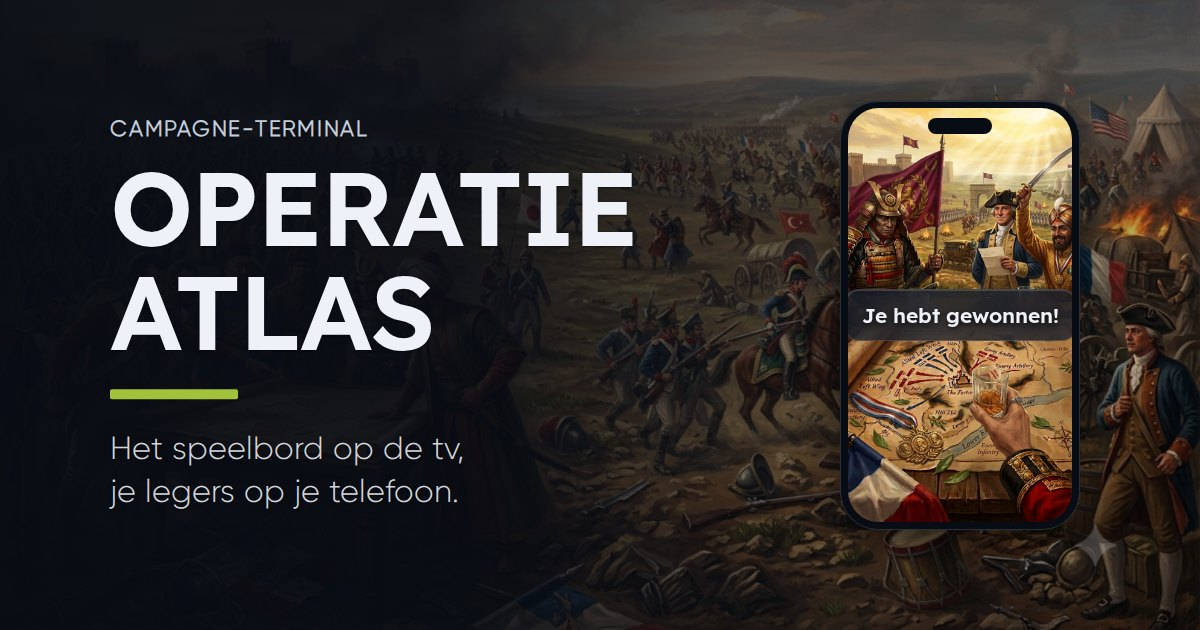
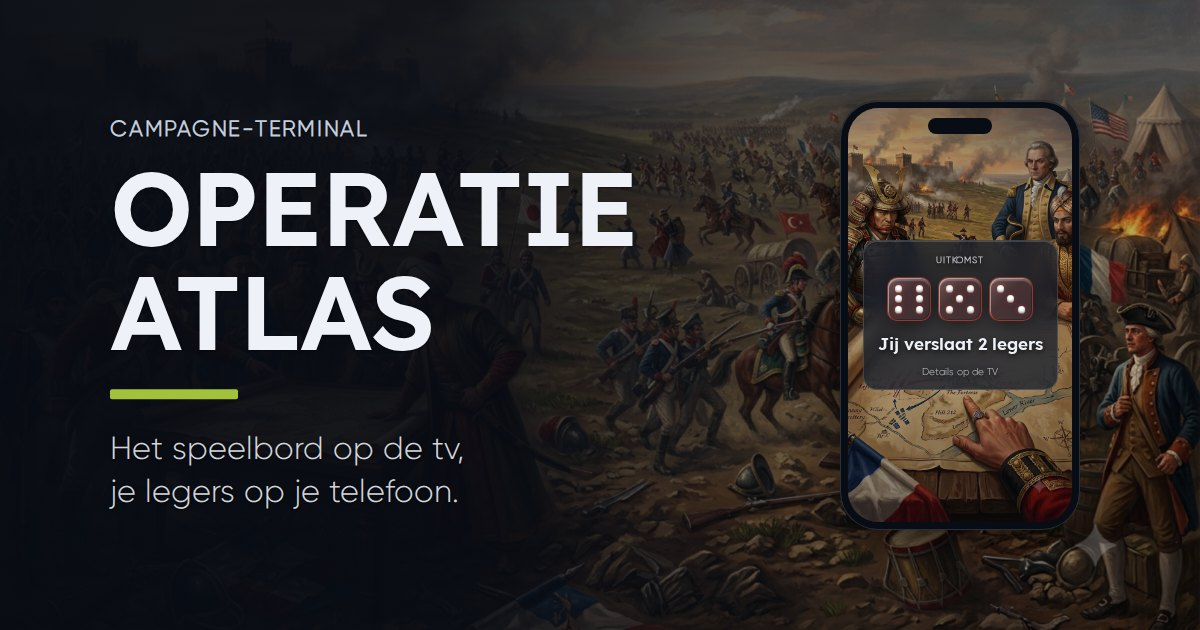
feat(frontend): aanvalsscherm met dobbelstenen in het linkvoorbeeld
Het overwinningsscherm voelde als het einde van het verhaal, terwijl het
linkvoorbeeld bij een uitnodiging hoort. Nu toont de telefoon de
aanvalsuitkomst van AttackFlowStep: drie rode glas-dobbelstenen (6-5-3),
"Jij verslaat 2 legers" en "Details op de TV", op phone-battlefield.webp.
Tints, schaduwen en pips volgen glass-tokens.ts; maten zijn opgeschaald
t.o.v. de telefoonverhouding zodat het in een klein voorbeeld leesbaar blijft.

Claude-Session: https://claude.ai/code/session_01TTcKwdJ6TVH6VrBiNnrEst

Changed region(s): [[0.7092, 0.1508, 0.8942, 0.8444]]

diff --git a/docs/brand/og-image.html b/docs/brand/og-image.html
@@ -12,14 +12,28 @@ p{font:400 32px/1.35 Body;color:color-mix(in srgb,#eef2f8 90%,transparent);margi
 .phone{position:absolute;right:120px;top:100px;width:240px;height:430px;border-radius:38px;padding:7px;box-sizing:border-box;
  background:#080c14;border:1px solid rgba(255,255,255,.14);box-shadow:inset 0 1px 0 rgba(255,255,255,.16),0 18px 40px rgba(0,0,0,.55)}
 .screen{position:relative;width:100%;height:100%;border-radius:31px;overflow:hidden;
- background:url("../../frontend/src/styles/assets/phone-winner.webp") center/cover;display:flex;align-items:center;justify-content:center}
-.notch{position:absolute;top:10px;left:50%;transform:translateX(-50%);width:64px;height:16px;border-radius:8px;background:#080c14}
-.win{padding:12px 16px;border-radius:14px;background:rgba(20,29,44,.72);backdrop-filter:blur(14px);-webkit-backdrop-filter:blur(14px);
- border:1px solid rgba(255,255,255,.14);box-shadow:inset 0 1px 0 rgba(255,255,255,.16);
- font:800 21px Brand;color:#eef2f8;text-shadow:0 2px 6px rgba(0,0,0,.85);white-space:nowrap}
+ background:url("../../frontend/src/styles/assets/phone-battlefield.webp") center/cover;display:flex;align-items:center;justify-content:center}
+.screen::before{content:"";position:absolute;inset:0;background:linear-gradient(180deg,rgba(8,12,20,.35),rgba(8,12,20,.15) 40%,rgba(8,12,20,.45))}
+.notch{position:absolute;top:10px;left:50%;transform:translateX(-50%);width:64px;height:16px;border-radius:8px;background:#080c14;z-index:2}
+.panel{position:relative;display:flex;flex-direction:column;align-items:center;gap:12px;padding:14px 14px 12px;border-radius:14px;
+ background:rgba(20,29,44,.72);backdrop-filter:blur(14px);-webkit-backdrop-filter:blur(14px);
+ border:1px solid rgba(255,255,255,.14);box-shadow:inset 0 1px 0 rgba(255,255,255,.16);text-shadow:0 2px 6px rgba(0,0,0,.85);text-align:center}
+.label{font:800 9px Body;letter-spacing:.1em;text-transform:uppercase;color:color-mix(in srgb,#eef2f8 75%,transparent)}
+.dice{display:flex;gap:7px}
+.die{position:relative;width:44px;height:44px;border-radius:10px;padding:6px;box-sizing:border-box;display:grid;grid-template:repeat(3,1fr)/repeat(3,1fr);gap:2px;
+ background:linear-gradient(135deg,rgba(148,78,66,.45),rgba(148,78,66,.28));backdrop-filter:blur(6px);-webkit-backdrop-filter:blur(6px);
+ border:1px solid color-mix(in srgb,#ca3c25 60%,transparent);
+ box-shadow:inset 1px 1px 0 rgba(255,255,255,.45),inset -1px -1px 0 rgba(0,0,0,.25),inset 0 3px 0 rgba(255,255,255,.18),0 8px 20px -6px rgba(0,0,0,.45);
+ transform:perspective(400px) rotateX(5deg)}
+.die::before{content:"";position:absolute;inset:0;border-radius:inherit;background:linear-gradient(135deg,rgba(255,255,255,.18) 0%,rgba(255,255,255,.08) 20%,rgba(255,255,255,0) 40%)}
+.die span{display:flex;align-items:center;justify-content:center}
+.die i{width:7px;height:7px;border-radius:50%;background:radial-gradient(circle at 35% 35%,rgba(255,255,255,.95),rgba(255,255,255,.7)),#eef2f8;
+ box-shadow:inset 0 -1px 2px rgba(0,0,0,.35),0 1px 0 rgba(255,255,255,.3),0 0 4px rgba(202,60,37,.6)}
+.result{font:900 17px Brand;color:#eef2f8;white-space:nowrap}
+.hint{font:400 10px Body;color:color-mix(in srgb,#eef2f8 75%,transparent)}
 </style></head><body>
 <div class="bg"></div><div class="scrim"></div>
 <div class="text"><div class="kicker">Campagne-terminal</div><h1>OPERATIE<br>ATLAS</h1><div class="bar"></div>
 <p>Het speelbord op de tv,<br>je legers op je telefoon.</p></div>
-<div class="phone"><div class="screen"><div class="notch"></div><div class="win">Je hebt gewonnen!</div></div></div>
+<div class="phone"><div class="screen"><div class="notch"></div><div class="panel"><div class="label">Uitkomst</div><div class="dice"><div class="die"><span><i></i></span><span></span><span><i></i></span><span><i></i></span><span></span><span><i></i></span><span><i></i></span><span></span><span><i></i></span></div><div class="die"><span><i></i></span><span></span><span><i></i></span><span></span><span><i></i></span><span></span><span><i></i></span><span></span><span><i></i></span></div><div class="die"><span><i></i></span><span></span><span></span><span></span><span><i></i></span><span></span><span></span><span></span><span><i></i></span></div></div><div class="result">Jij verslaat 2 legers</div><div class="hint">Details op de TV</div></div></div></div>
 </body></html>
